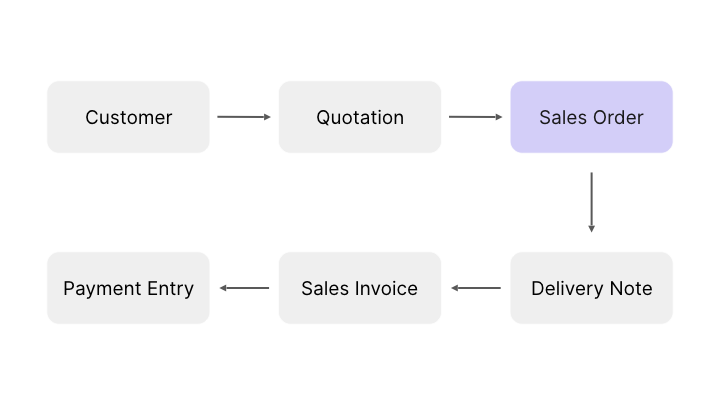
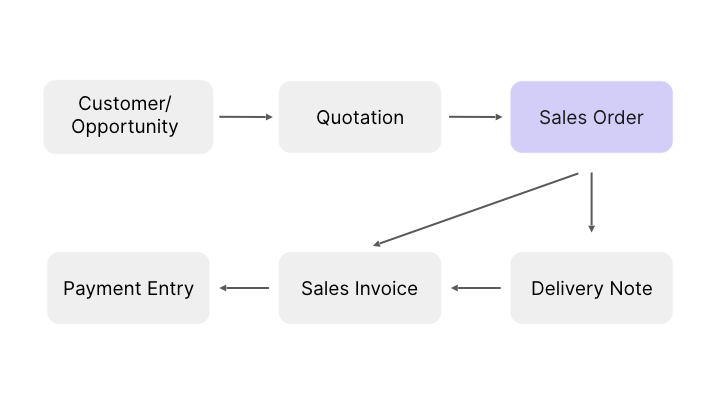
update diagrams

diff --git a/user/manual/en/selling/sales-order.md b/user/manual/en/selling/sales-order.md
@@ -5,8 +5,6 @@
 
 It is usually a binding Contract with your Customer. Once your customer confirms the Quotation you can convert your Quotation into a Sales Order.
 
-There are various transactions which can be triggered from a Sales Order:
-
 <img class="screenshot" alt="Make Quotation from Opportunity" src="{{docs_base_url}}/assets/img/selling/selling-flow-so.png">
 
 ## 1. How to create a Sales Order
